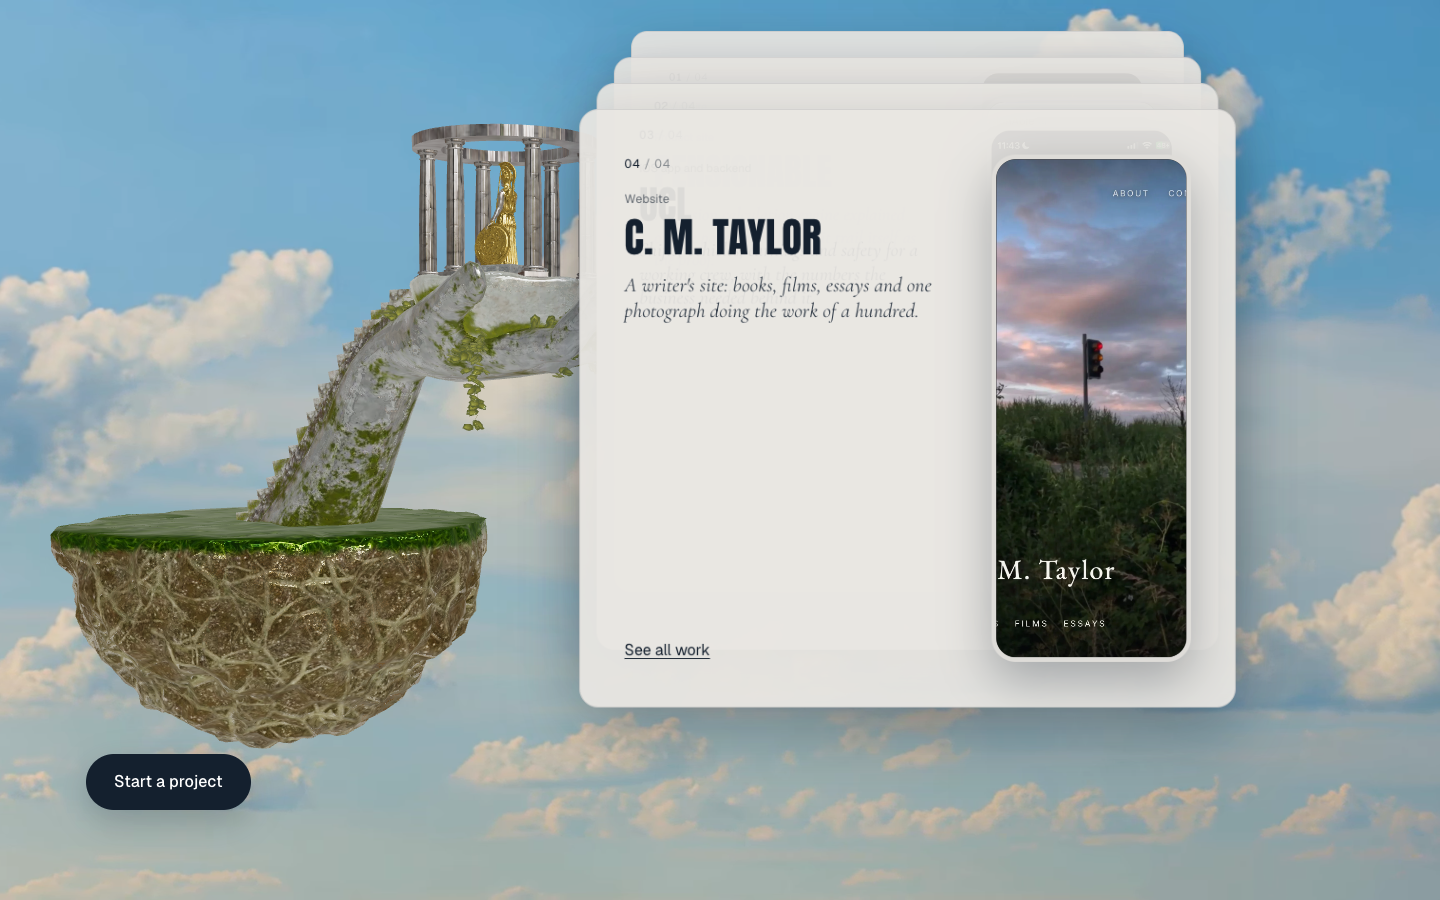
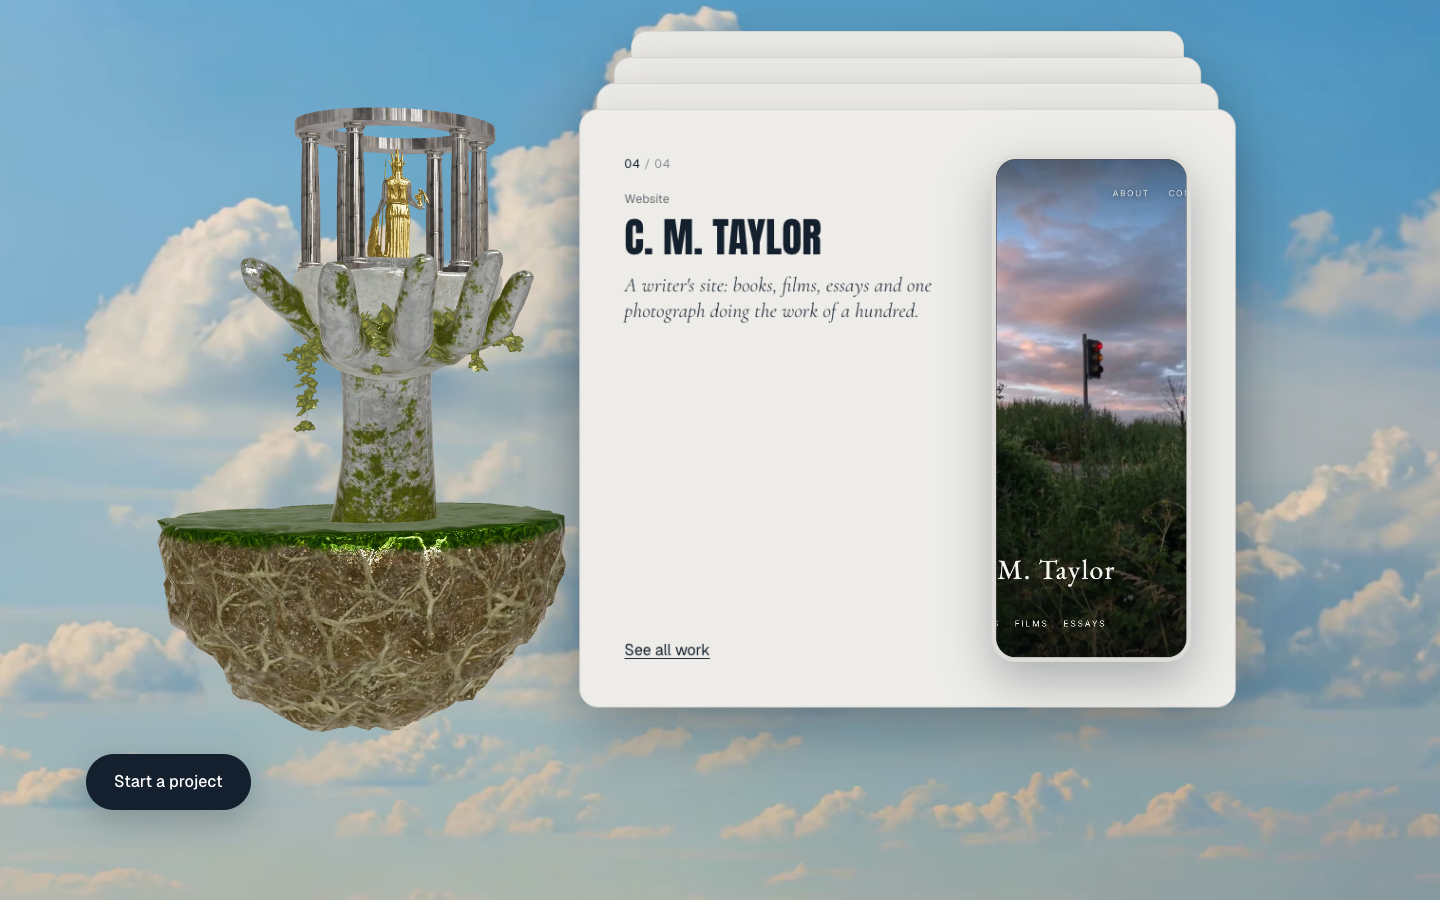
Work stack panels opaque; portfolio page at /work with all projects
Claude-Session: https://claude.ai/code/session_01NAdPXLUXCGhh82qBsMYyAh

diff --git a/src/app/globals.css b/src/app/globals.css
@@ -552,7 +552,7 @@ footer.section {
   gap: calc(var(--pad) * var(--phi));
   padding: calc(var(--pad) * var(--phi));
   border-radius: 1.25rem;
-  background: rgba(233, 231, 226, 0.94);
+  background: #edecE8;
   border: 1px solid rgba(20, 32, 46, 0.1);
   box-shadow: 0 30px 70px rgba(20, 32, 46, 0.28);
   transform-origin: 50% 0%;
@@ -633,3 +633,49 @@ footer.section {
   .work__card { left: 50%; width: calc(100vw - 2rem); margin-left: calc((100vw - 2rem) / -2); grid-template-columns: 1fr; }
   .work__phone { display: none; }
 }
+
+/* ---------- portfolio page ---------- */
+.work-page {
+  padding: clamp(3rem, 8vw, 7rem) clamp(1.25rem, 6vw, 6rem);
+  background: var(--marble);
+  color: var(--ink);
+  min-height: 100svh;
+}
+.work-page h1 {
+  font-family: var(--font-wordmark);
+  text-transform: uppercase;
+  font-weight: 400;
+  font-size: clamp(var(--step-5), 7vw, var(--step-7));
+  line-height: 0.9;
+  margin: 0 0 1rem;
+}
+.work-page > p {
+  font-family: var(--font-display);
+  font-style: italic;
+  font-size: var(--step-2);
+  max-width: 34ch;
+  margin: 0 0 clamp(2rem, 5vw, 4rem);
+}
+.work-grid {
+  display: grid;
+  grid-template-columns: repeat(auto-fill, minmax(16rem, 1fr));
+  gap: clamp(1.5rem, 3vw, 3rem);
+}
+.work-grid article {
+  display: grid;
+  gap: 0.75rem;
+}
+.work-grid figure {
+  margin: 0;
+  aspect-ratio: 9 / 19.5;
+  border-radius: 1.4rem;
+  overflow: hidden;
+  border: 5px solid white;
+  box-shadow: 0 20px 50px rgba(20, 32, 46, 0.2);
+  background: var(--quarry);
+}
+.work-grid img { width: 100%; height: 100%; object-fit: cover; object-position: top; display: block; }
+.work-grid h2 { margin: 0.5rem 0 0; font-family: var(--font-wordmark); text-transform: uppercase; font-weight: 400; font-size: var(--step-3); line-height: 0.95; }
+.work-grid .kind { margin: 0; font-size: var(--step--1); color: rgba(20, 32, 46, 0.6); }
+.work-grid .line { margin: 0; font-family: var(--font-display); font-style: italic; font-size: var(--step-1); line-height: 1.25; }
+.work-page a.back { display: inline-block; margin-top: clamp(2rem, 5vw, 4rem); color: inherit; }

diff --git a/src/app/work/page.tsx b/src/app/work/page.tsx
@@ -1,0 +1,25 @@
+import { PROJECTS, MORE_PROJECTS } from "@/portal/work";
+
+export const metadata = { title: "Work, Build Different" };
+
+/** The portfolio page: everything, with room for a short article on each in time. */
+export default function WorkPage() {
+  const all = [...PROJECTS, ...MORE_PROJECTS];
+  return (
+    <main className="work-page">
+      <h1>Work</h1>
+      <p>Sites, apps and systems we have built or rebuilt. Each one will get its own page in time.</p>
+      <div className="work-grid">
+        {all.map((p) => (
+          <article key={p.name}>
+            <figure><img src={p.image} alt={p.alt} width={900} height={1950} loading="lazy" /></figure>
+            <p className="kind">{p.kind}</p>
+            <h2>{p.name}</h2>
+            <p className="line">{p.line}</p>
+          </article>
+        ))}
+      </div>
+      <a className="back" href="/">Back to the front</a>
+    </main>
+  );
+}

diff --git a/src/portal/work.ts b/src/portal/work.ts
@@ -9,3 +9,8 @@ export const PROJECTS: Project[] = [
 ];
 
 export const WORK_MORE = { label: "See all work", href: "/work" };
+
+/** the rest, shown on the portfolio page with the four above */
+export const MORE_PROJECTS: Project[] = [
+  { name: "Jack Crump", kind: "Portfolio site", line: "A photographer's site: the pictures, the profile, nothing in the way.", image: "/images/work/jack-crump.webp", alt: "Jack Crump photography site on a phone" },
+];
